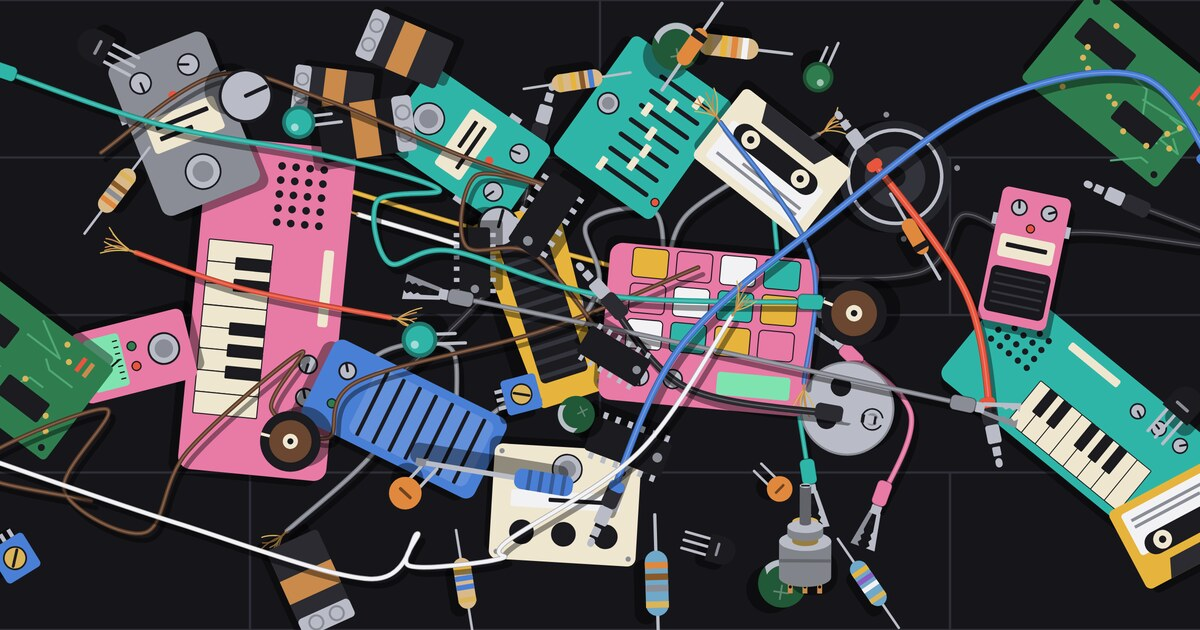
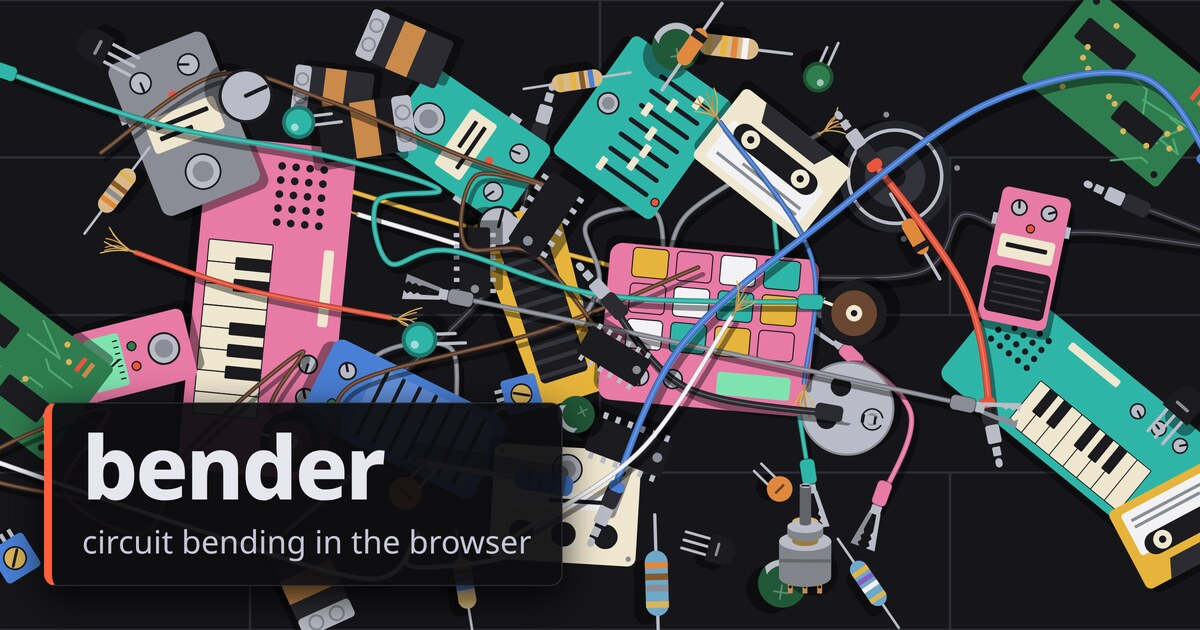
feat(home): name bender on the share image

Changed region(s): [[0.0, 0.6032, 0.4933, 0.9952]]

diff --git a/scripts/og.ts b/scripts/og.ts
@@ -8,21 +8,53 @@ import { tmpdir } from 'node:os'
 import { join } from 'node:path'
 
 // `pnpm og` draws the landing page's pile, from the seed the server renders,
-// into the picture a shared link unfurls with. Wants a Chrome and ImageMagick's
-// `magick`.
+// under a name plate into the picture a shared link unfurls with. Wants a
+// Chrome and ImageMagick's `magick`.
 
 const OUT = `public/${SHARE_SHOT.file}`
 const { width, height } = SHARE_SHOT
 const DPR = 2
 
-const tokens = readFileSync('src/tokens.css', 'utf8')
+const TAGLINE = 'circuit bending in the browser'
+
+const sheet = (file: string) =>
+  readFileSync(file, 'utf8').replace(/^@import .*$/m, '')
 const html = `<!doctype html>
 <style>
-${tokens}
-html, body { margin: 0; background: var(--surface); }
+${sheet('src/tokens.css')}
+${sheet('src/theme.css')}
+html, body { margin: 0; background: var(--surface); font-family: var(--font); }
 svg { display: block; width: ${width}px; height: ${height}px; }
+.plate {
+  position: absolute;
+  left: 44px;
+  bottom: 44px;
+  padding: 18px 30px 22px;
+  border: 1px solid var(--border-faint);
+  border-left: 8px solid var(--accent);
+  border-radius: 12px;
+  background: color-mix(in srgb, var(--bg) 94%, transparent);
+  box-shadow: 0 12px 40px #000c;
+}
+.name {
+  margin: 0;
+  color: var(--fg);
+  font-size: 88px;
+  font-weight: 800;
+  line-height: 1;
+  letter-spacing: -0.03em;
+}
+.tag {
+  margin: 10px 0 0;
+  color: var(--fg2);
+  font-size: 32px;
+}
 </style>
-${pile()}`
+${pile()}
+<div class="plate">
+  <p class="name">bender</p>
+  <p class="tag">${TAGLINE}</p>
+</div>`
 
 const dir = mkdtempSync(join(tmpdir(), 'bender-og-'))
 try {
